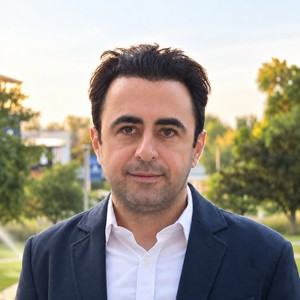
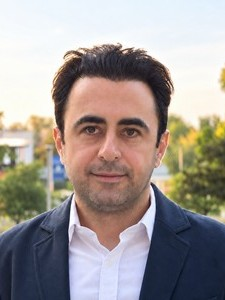
Update site.ts

diff --git a/src/config/site.ts b/src/config/site.ts
@@ -116,8 +116,8 @@ export const site = {
      */
     items: [
       { label: 'Home', href: '/' },
-      { label: 'projects', href: '/projects/' },
-      { label: 'publications', href: '/publications/' },
+      { label: 'Projects', href: '/projects/' },
+      { label: 'Publications', href: '/publications/' },
       {
         label: 'CV / Resume',
         children: [
